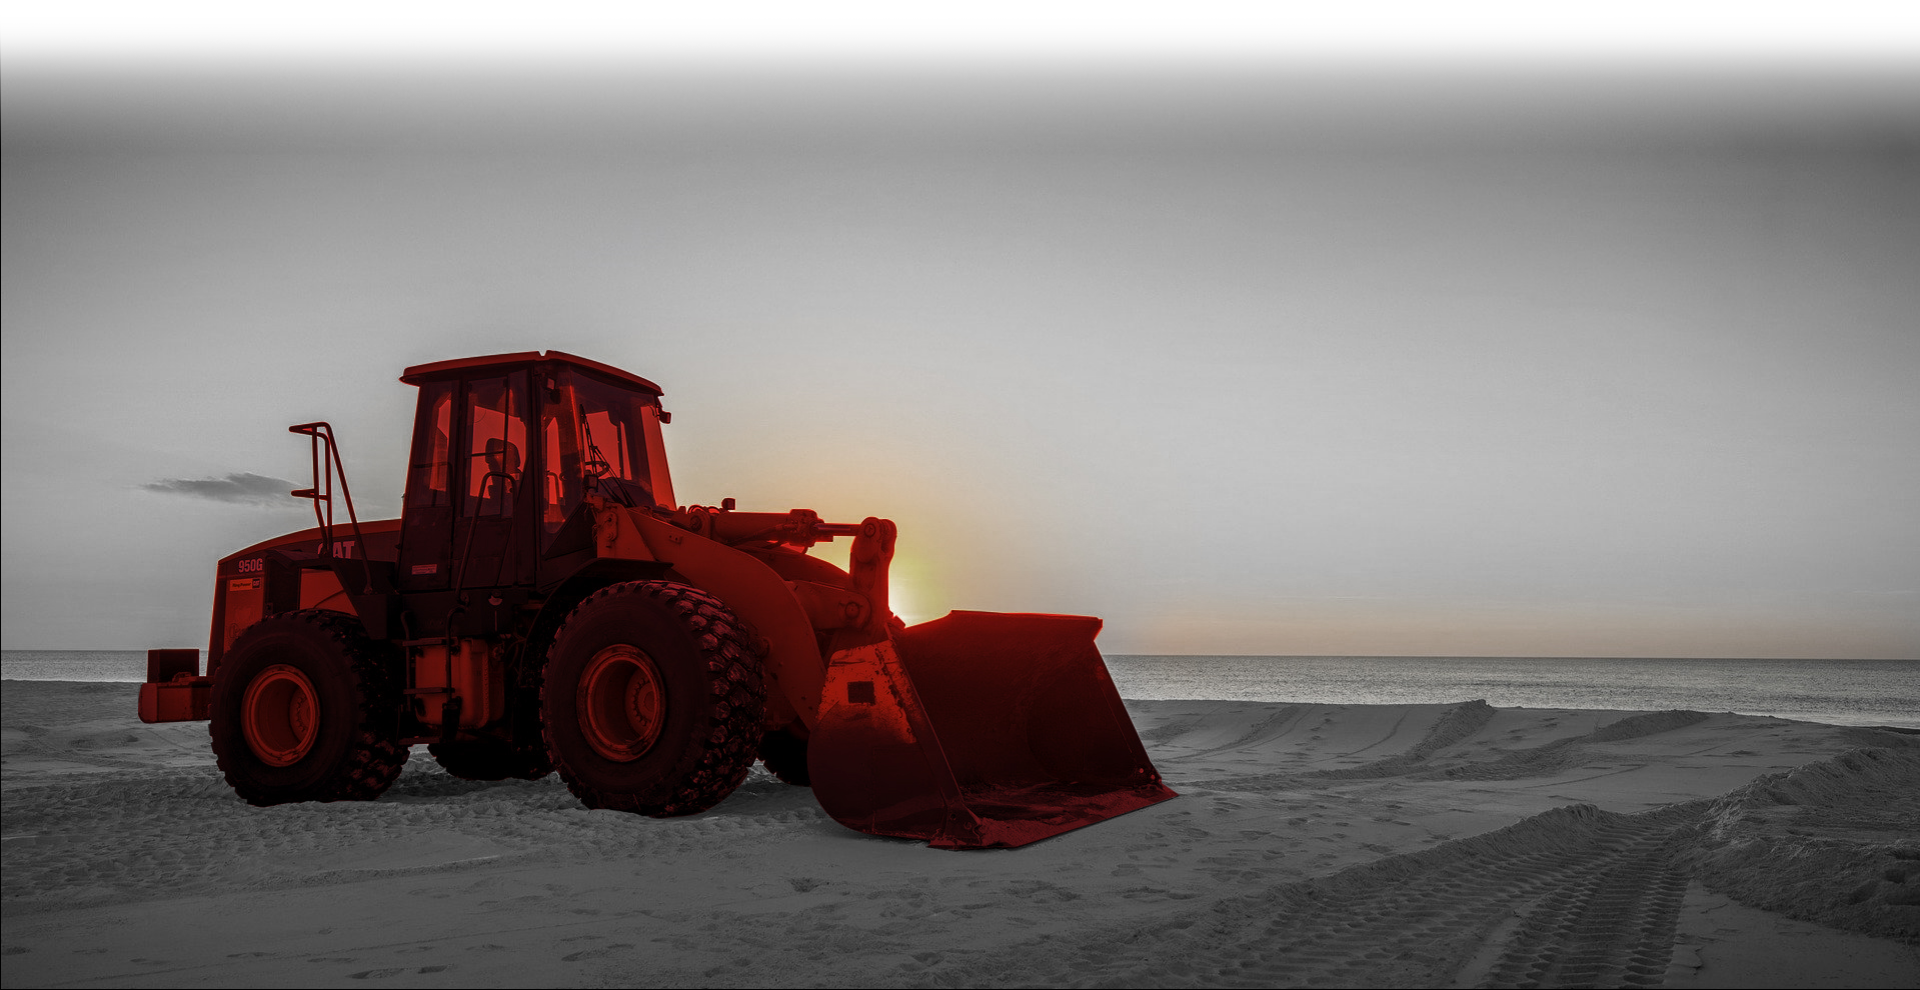
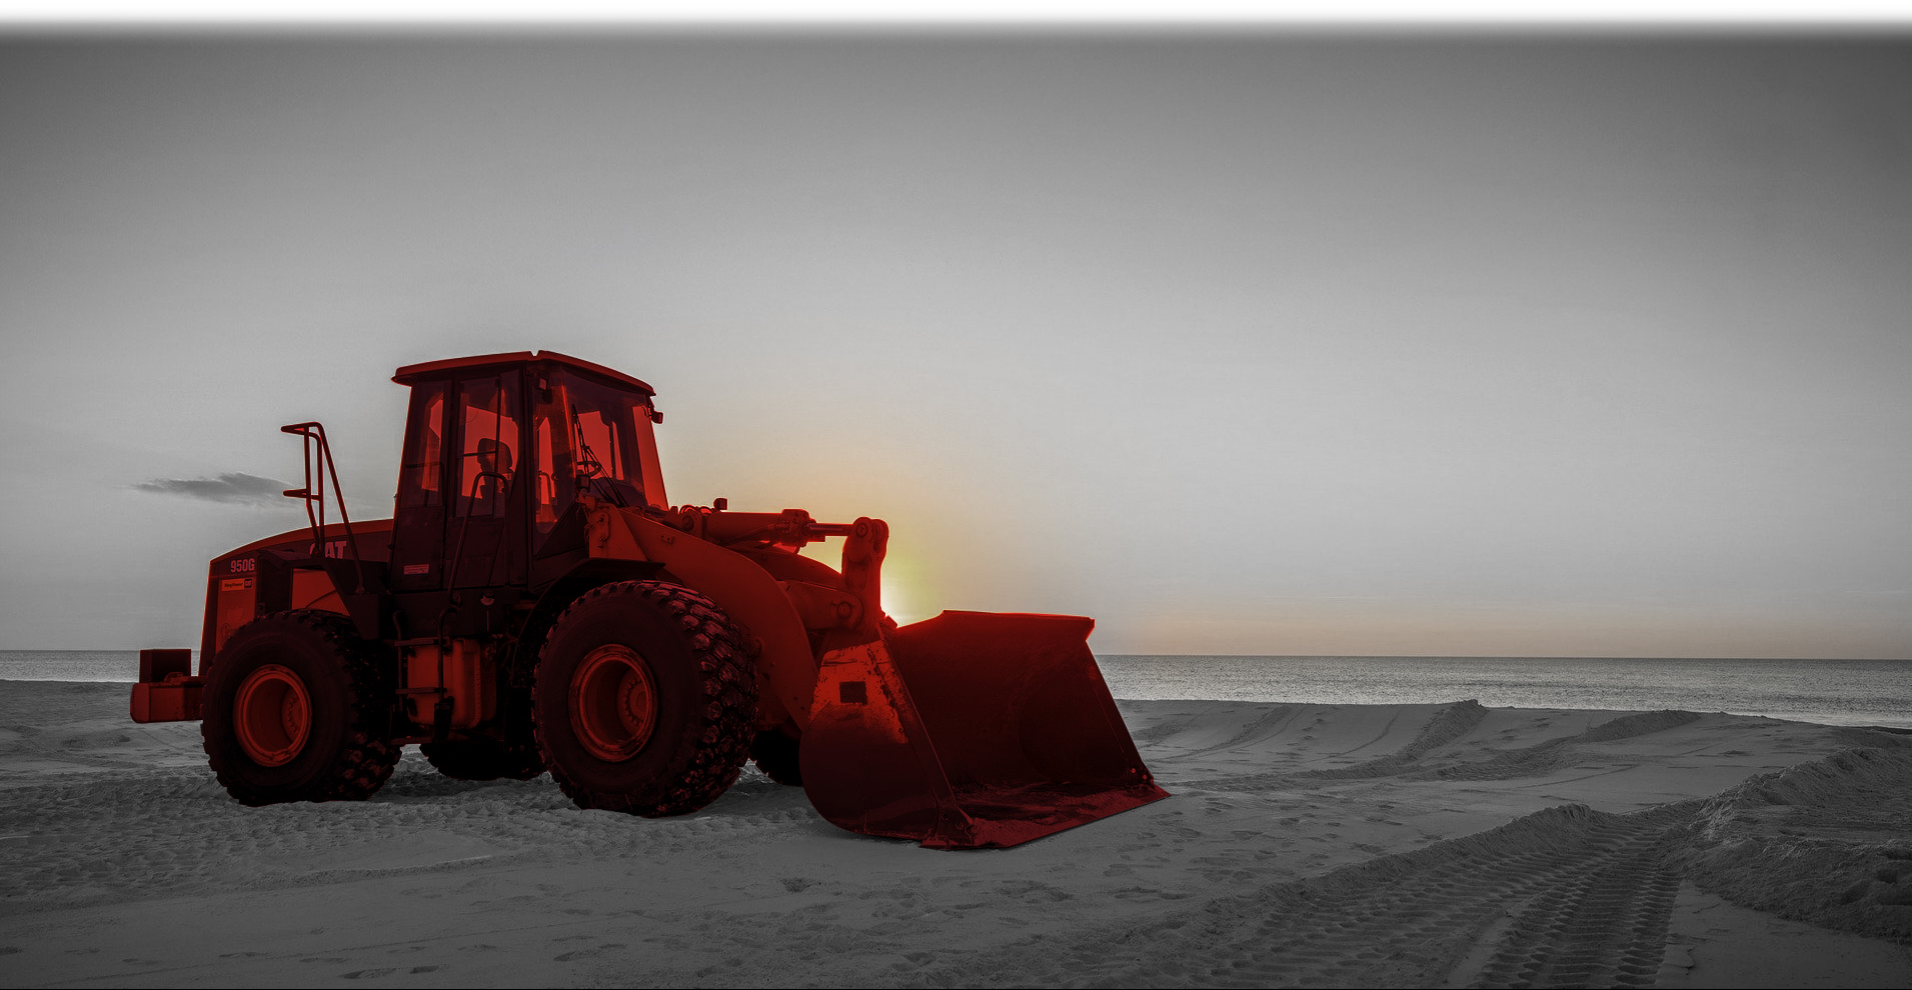
pravki

diff --git a/mohovik/css/main.css b/mohovik/css/main.css
@@ -86,6 +86,7 @@ section {
 
 .bllurImg__wrap img {
   max-width: 100%;
+  height: auto;
 }
 
 @media (max-width: 992px) {
@@ -392,7 +393,6 @@ section {
             align-items: center;
   }
   .navbar__list ul li[data-rol="dropdown"] ul {
-    display: none;
     position: relative;
     width: auto;
     background: none;
@@ -400,12 +400,12 @@ section {
     -webkit-box-direction: normal;
         -ms-flex-direction: column;
             flex-direction: column;
-    -webkit-transform: scaleY(0);
-            transform: scaleY(0);
+    -webkit-transform: scaleY(1);
+            transform: scaleY(1);
     -webkit-transform-origin: top;
             transform-origin: top;
-    -webkit-transition: .3s;
-    transition: .3s;
+    -webkit-transition: 1s;
+    transition: 1s;
   }
   .navbar__list ul li[data-rol="dropdown"] ul li a {
     font-size: 16px;
@@ -758,7 +758,7 @@ section {
 @media (max-width: 992px) {
   .sale {
     background: url("../img/saleBgMobile.png");
-    background-position: center center;
+    background-position: center bottom;
     background-repeat: no-repeat;
     background-size: cover;
     min-height: 100vh;
@@ -1119,6 +1119,10 @@ section {
   top: 67%;
 }
 
+.whay__cont-img span:nth-child(3) p {
+  width: 260px;
+}
+
 .whay__cont-img span:nth-child(4) {
   left: 45%;
   top: 33%;
@@ -1131,7 +1135,7 @@ section {
 
 .whay__cont-img span:nth-child(5) p {
   top: -100px;
-  right: -100px;
+  right: -65px;
 }
 
 .whay__cont-img span .showToltip {
@@ -1230,6 +1234,11 @@ section {
   overflow: visible;
   padding-top: 0;
   background: #fff;
+  padding-bottom: 10px;
+}
+
+.exp .globalCont {
+  padding-bottom: 0;
 }
 
 .exp .whay__title h2 {
@@ -1370,10 +1379,13 @@ section {
   .exp__cont-items img {
     margin-bottom: 20px;
   }
+  .exp__cont-items #galleryThree img {
+    margin-bottom: 0;
+  }
 }
 
 .contacts {
-  padding-top: 50px;
+  padding-top: 30px;
   overflow: visible;
   min-height: 80vh;
   background: url("../img/mapBgrep.png");
@@ -1384,7 +1396,7 @@ section {
 
 .contacts__cont {
   padding: 10px;
-  width: 560px;
+  width: 320px;
   max-width: 100%;
   display: block;
   margin-left: auto;
@@ -1442,6 +1454,9 @@ section {
     background-repeat: no-repeat;
     background-size: cover;
   }
+  .contacts__cont {
+    width: 100%;
+  }
   .contacts__cont a, .contacts__cont p {
     font-size: 18px;
   }
@@ -1455,6 +1470,12 @@ section {
 .videoCont iframe {
   width: 100%;
   height: 60vh;
+}
+
+@media (max-width: 992px) {
+  .videoCont iframe {
+    height: 40vh;
+  }
 }
 
 .about_repair {
@@ -1702,7 +1723,7 @@ section {
   background-image: url("../img/saleAbout.png");
   background-position: top center;
   background-repeat: no-repeat;
-  background-size: 100% 100%;
+  background-size: cover;
   min-height: 850px;
 }
 
@@ -1773,6 +1794,9 @@ section {
 }
 
 @media (max-width: 1280px) {
+  .saleAbout {
+    min-height: 600px;
+  }
   .saleAbout__cont-prec {
     width: 400px;
   }
@@ -1791,13 +1815,14 @@ section {
         flex-wrap: wrap;
   }
   .saleAbout__cont-bank {
+    padding-top: 20px;
     width: 30%;
     display: -webkit-box;
     display: -ms-flexbox;
     display: flex;
-    -webkit-box-pack: center;
-        -ms-flex-pack: center;
-            justify-content: center;
+    -webkit-box-pack: start;
+        -ms-flex-pack: start;
+            justify-content: flex-start;
     -webkit-box-align: center;
         -ms-flex-align: center;
             align-items: center;

diff --git a/mohovik/img/main.js b/mohovik/img/main.js
@@ -32,26 +32,19 @@ document.addEventListener("DOMContentLoaded", () => {
     
     
     
-    const btnToltip = document.querySelectorAll('[data-rol="btnToltip"]'),
-        btnToltipCont = document.querySelector('[data-rol="btnToltipCont"]');
+    const btnToltip = document.querySelectorAll('[data-rol="btnToltip"]');
     if(btnToltip) {
-        btnToltipCont.addEventListener('click', e => {
-            if(e.target.nodeName != 'SPAN'){
+        btnToltip.forEach(key => {
+            key.addEventListener('click', e => {
                 btnToltip.forEach(key => {
-                    key.lastElementChild.classList.remove('showToltip');
+                    let tiltipP = key.querySelector('p');
+                    tiltipP.classList.remove('showToltip');
                 });
-            }
-            if (e.target.nodeName == 'SPAN' && !e.target.lastElementChild.classList.contains('showToltip')) {
-                btnToltip.forEach(key => {
-                    key.lastElementChild.classList.remove('showToltip');
-                });
-                e.target.lastElementChild.classList.add('showToltip');
-            } else if(e.target.nodeName == 'SPAN' && e.target.lastElementChild.classList.contains('showToltip')) {
-                e.target.lastElementChild.classList.remove('showToltip');
-            }
+                let tiltipP = e.target.querySelector('p');
+                tiltipP.classList.add('showToltip');
+            });
         });
     }
-
     const navBtn = document.querySelector('[data-rol="navBtn"]'),
     navList = document.querySelector('[data-rol="navList"]'),
     navLiHide = document.querySelectorAll('[data-rol="navLiHide"]'),

diff --git a/mohovik/sass/_saleAbout.sass b/mohovik/sass/_saleAbout.sass
@@ -2,8 +2,7 @@
   background-image: url('../img/saleAbout.png')
   background-position: top center
   background-repeat: no-repeat
-  background-image: 
-  background-size: 100% 100%
+  background-size: cover
   min-height: 850px
   &__cont
     display: flex
@@ -40,6 +39,7 @@
         justify-content: center
         align-items: center
   @media(max-width: 1280px)
+    min-height: 600px
     &__cont
       &-bank
       &-prec
@@ -52,9 +52,10 @@
     &__cont
       flex-wrap: wrap
       &-bank
+        padding-top: 20px
         width: 30%
         display: flex
-        justify-content: center
+        justify-content: flex-start
         align-items: center
         flex-direction: column
         img

diff --git a/mohovik/sass/_contacts.sass b/mohovik/sass/_contacts.sass
@@ -1,5 +1,5 @@
 .contacts
-  padding-top: 50px
+  padding-top: 30px
   overflow: visible
   min-height: 80vh
   background: url('../img/mapBgrep.png')
@@ -8,7 +8,7 @@
   background-size: cover
   &__cont
     padding: 10px
-    width: 560px
+    width: 320px
     max-width: 100%
     display: block
     margin-left: auto
@@ -43,5 +43,6 @@
     background-repeat: no-repeat
     background-size: cover
     &__cont
+      width: 100%
       a, p
         font-size: 18px

diff --git a/mohovik/sass/_whay.sass b/mohovik/sass/_whay.sass
@@ -122,6 +122,8 @@
         &:nth-child(3)
           left: 37%
           top: 67%
+          p
+            width: 260px
         &:nth-child(4)
           left: 45%
           top: 33%
@@ -130,7 +132,7 @@
           top: 57%
           p
             top: -100px
-            right: -100px
+            right: -65px
         .showToltip
           transition: .3s
           transform: scale(1)

diff --git a/mohovik/sass/_navbar.sass b/mohovik/sass/_navbar.sass
@@ -125,14 +125,13 @@
 					align-items: center
 					a
 					ul
-						display: none
 						position: relative
 						width: auto
 						background: none
 						flex-direction: column
-						transform: scaleY(0)
+						transform: scaleY(1)
 						transform-origin: top
-						transition: .3s
+						transition: 1s
 						li
 							a
 								font-size: 16px

diff --git a/mohovik/sale.html b/mohovik/sale.html
@@ -94,7 +94,8 @@
   </section>
   <div class="bllurImg repair-bllurImg">
 		<div class="bllurImg__wrap d-flex">
-			<img src="img/prLogoSale.png" alt="">
+      <img src="img/prLogoSale.png" alt="" class="d-none d-lg-block">
+      <img src="img/prLogoSaleMobile.png" alt="" class="d-lg-none w-100">
 		</div>
 		<!-- /.bllurImg__wrap -->
 	</div>

diff --git a/mohovik/sass/_exp.sass b/mohovik/sass/_exp.sass
@@ -2,6 +2,9 @@
   overflow: visible
   padding-top: 0
   background: $main_white
+  padding-bottom: 10px
+  .globalCont
+    padding-bottom: 0
   .whay__title
     h2
       margin-top: -100px
@@ -81,3 +84,6 @@
       &-items
         img 
           margin-bottom: 20px
+        #galleryThree
+          img
+            margin-bottom: 0

diff --git a/mohovik/sass/_firstscroll.sass b/mohovik/sass/_firstscroll.sass
@@ -183,7 +183,7 @@
       margin-bottom: auto
   @media(max-width: 992px)
     background: url('../img/saleBgMobile.png')
-    background-position: center center
+    background-position: center bottom
     background-repeat: no-repeat
     background-size: cover
     min-height: 100vh

diff --git a/mohovik/sass/_global.sass b/mohovik/sass/_global.sass
@@ -61,6 +61,7 @@ section
 	&__wrap
 		img
 			max-width: 100%
+			height: auto
 	@media(max-width: 992px)
 		margin-top: -50px
 /* --- slick style Start ------------------------------------------------*/

diff --git a/mohovik/sass/_videoCont.sass b/mohovik/sass/_videoCont.sass
@@ -5,5 +5,6 @@
     width: 100%
     height: 60vh
   @media(max-width: 992px)
-    dn
+    iframe
+      height: 40vh
       

diff --git a/mohovik/about.php b/mohovik/about.php
@@ -1,0 +1,32 @@
+<div class="bllurImg repair-bllurImg">
+  <div class="bllurImg__wrap">
+    <img src="<?php bloginfo(template_url);?>/img/prLogo.png" alt="">
+  </div>
+  <!-- /.bllurImg__wrap -->
+</div>
+<!-- /.bllurCont -->
+
+<section class="about_repair about_motor">
+<div class="globalCont">
+  <div class="about_repair-cont">
+    <div class="about_repair-cont-items">
+      <div class="about_repair-cont-items-img">
+      <h3 class="d-lg-none text-center"><?php echo get_the_title( 123 );?></h3>
+        <img src="<?php the_field('other_img', 123); ?>" alt="<?php echo get_the_title( 123 );?>">
+      </div>
+      <!-- /.about_repair-cont-items-img -->
+    </div>
+    <!-- /.about_repair-cont-items -->
+    <div class="about_repair-cont-items motor-items-text">
+      <div class="about_repair-cont-items-desc">
+        <h3 class="d-none d-lg-block"><?php echo get_the_title( 123 );?></h3>
+        <?php echo get_post( 123 )->post_content;?>
+        <a href="#mpopup-form" class="mainBtnC mpopup"  onclick="setNameScroll('Бесплатная консультация - > Склад запчастей','Введите данные и мы свяжемся с Вами в течение 30 минут');">Бесплатная консультация</a>
+      </div>
+      <!-- /.about_repair-cont-items-desc -->
+    </div>
+    <!-- /.about_repair-cont-items -->
+  </div>
+  <!-- /.about_repair-cont -->
+</div>
+</section>
